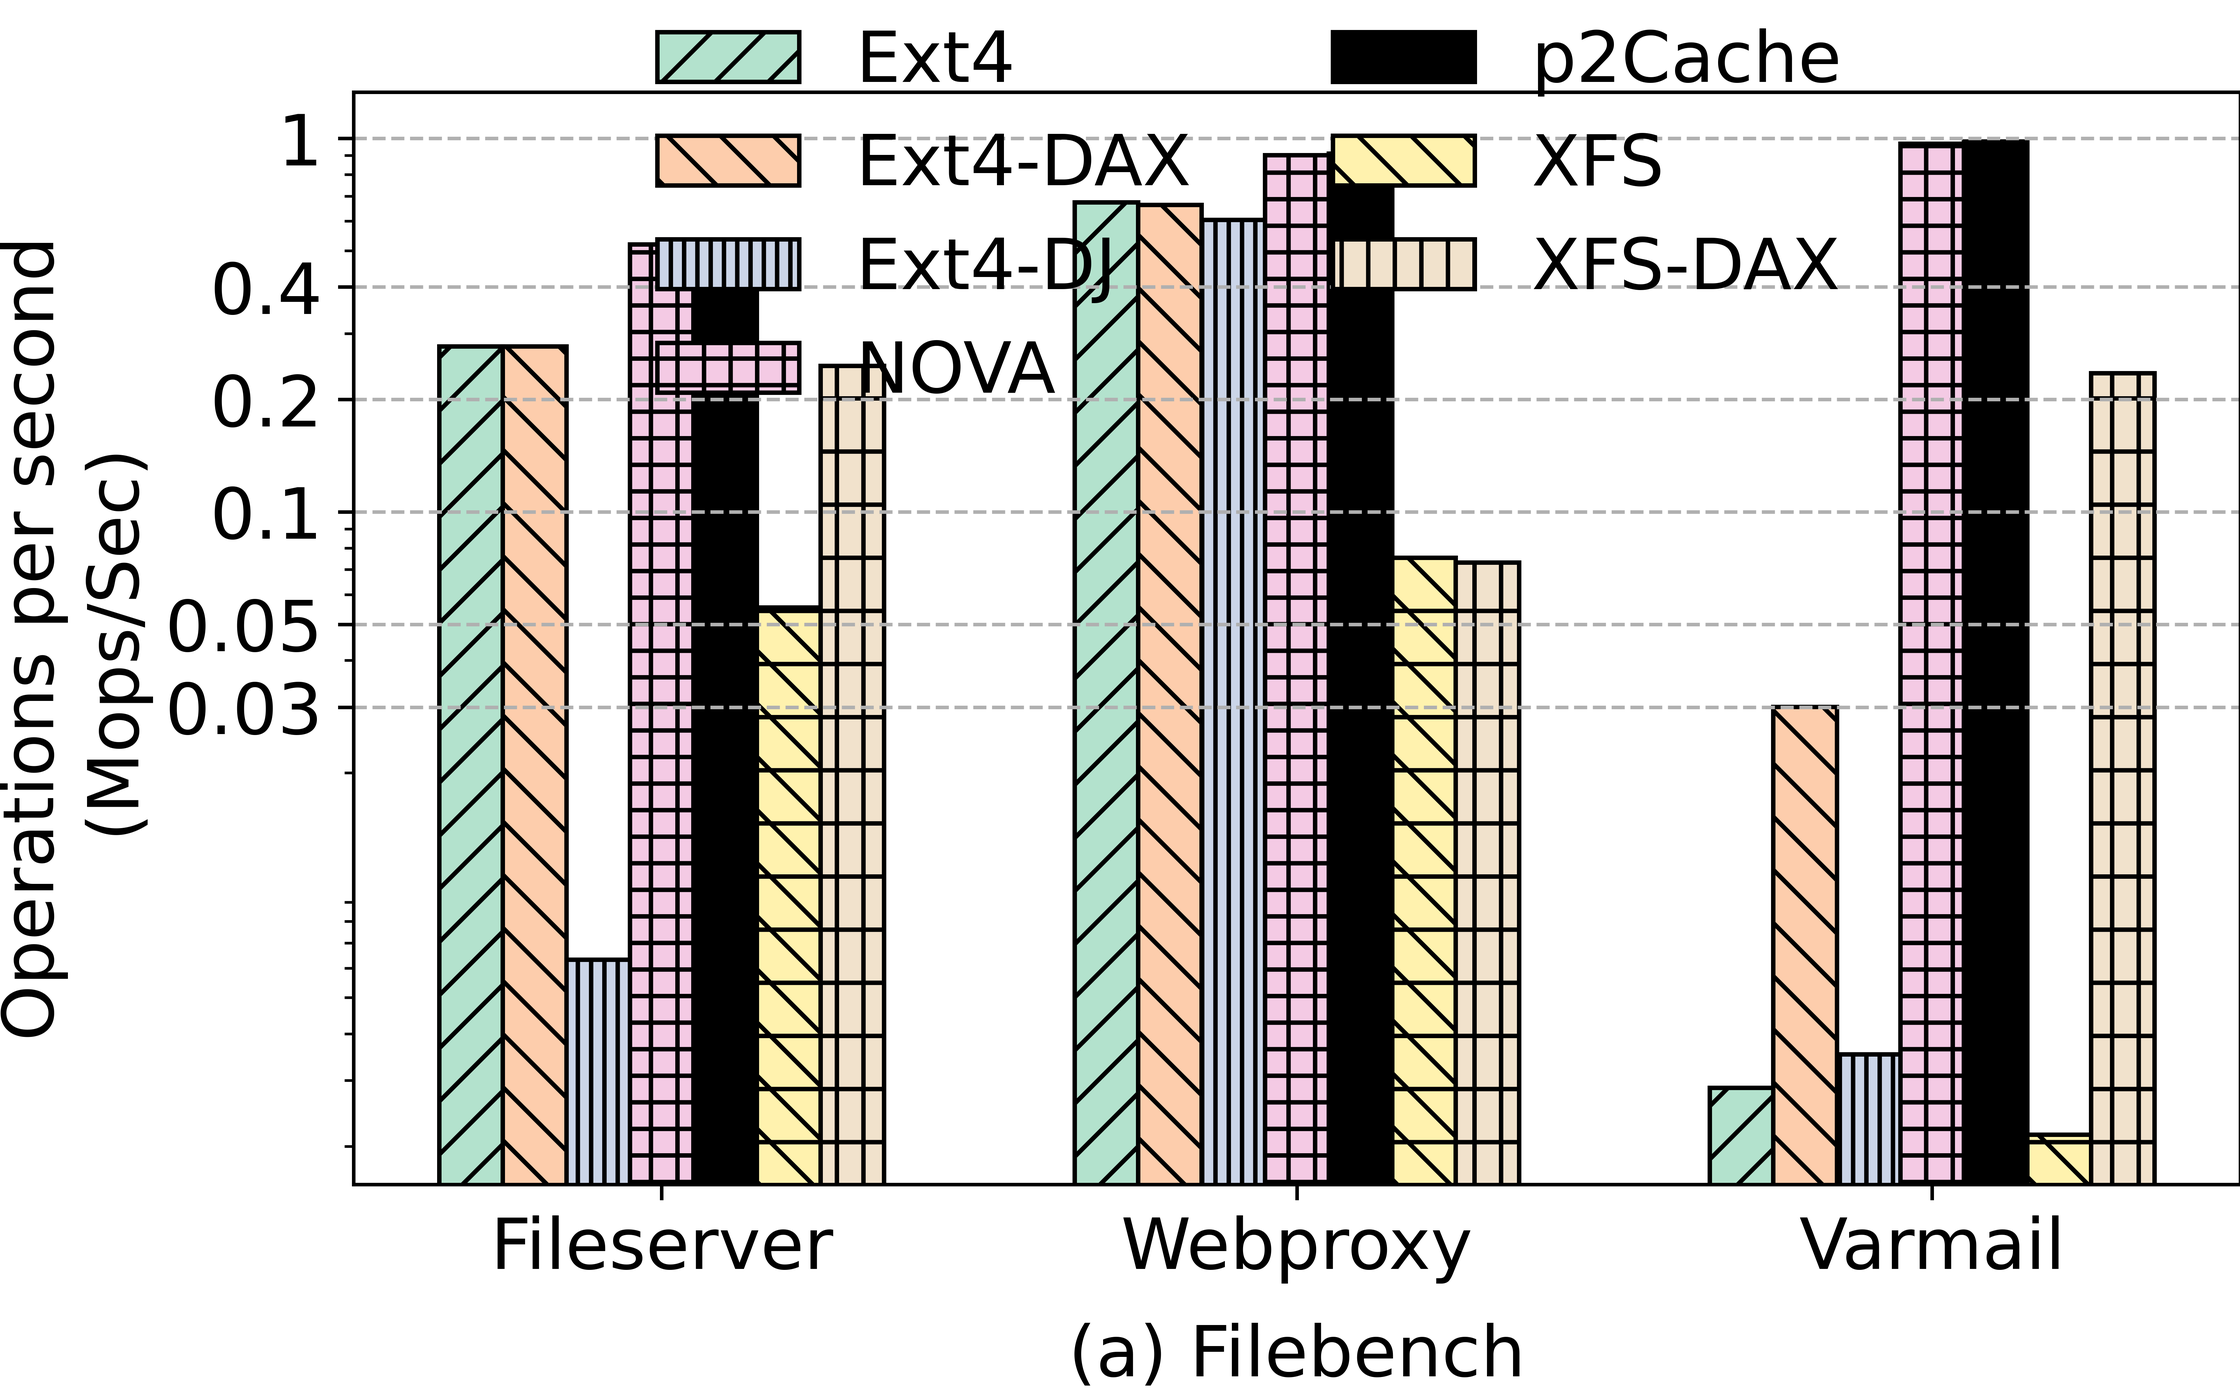
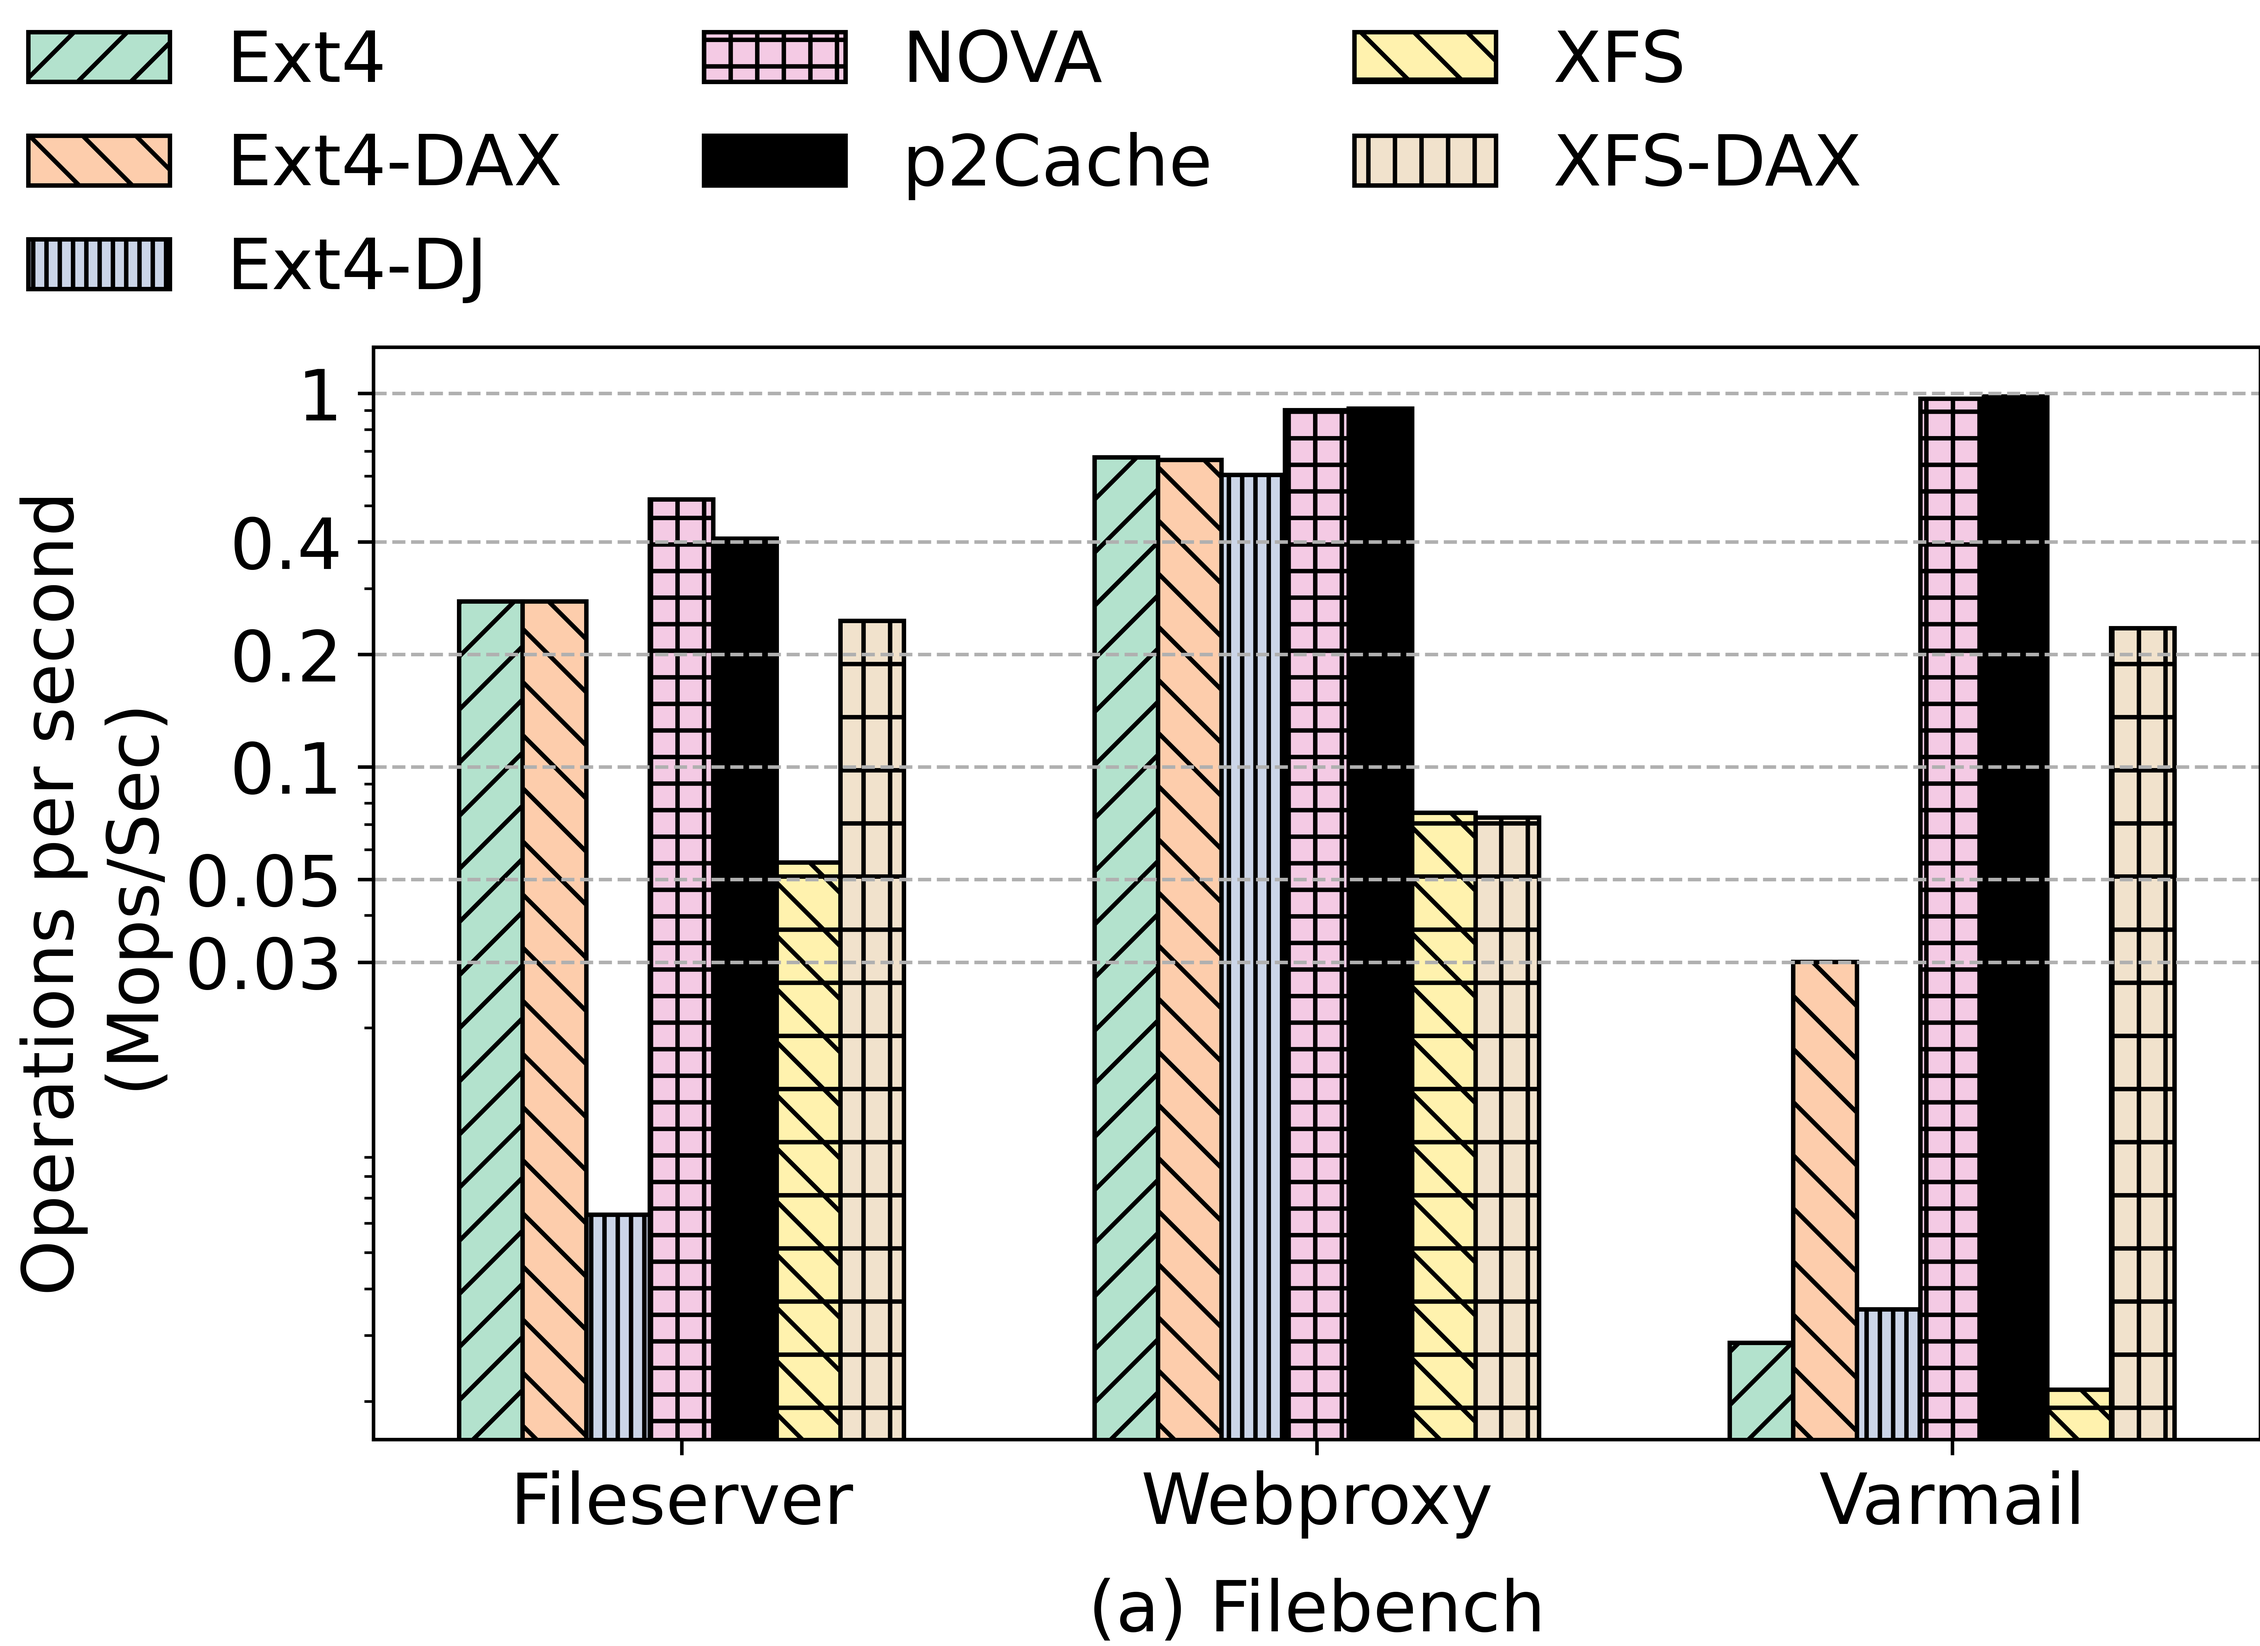
fix

Changed region(s): [[0.0, 0.0, 1.0, 0.9973], [0.9974, 0.8414, 1.0, 0.8726]]

diff --git a/share/artifact/plot/rocksdb.py b/share/artifact/plot/rocksdb.py
@@ -58,7 +58,7 @@ bar_num = len(data_names)
 x = np.arange(len(df["bench_name"]), dtype = float)
 for idx, i in enumerate(data_names):
     offset, wid = calc_pos(bar_num, idx)
-    ax.bar(x + offset, df[i] / 1000000, color = colors[idx], width = wid, edgecolor='black', hatch = patterns[idx])
+    ax.bar(x + offset, df[i] / 1000000, label = label_names[idx], color = colors[idx], width = wid, edgecolor='black', hatch = patterns[idx])
 ax.set_yscale('log')
 ax.grid(axis= 'y',linestyle='--')
 ax.tick_params(axis='both', labelsize=16)
@@ -67,7 +67,7 @@ ax.set_yticks([0.001, 0.01, 0.1, 0.2, 0.4, 1, 2], ["0.001", "0.01", "0.1", "0.2"
 ax.set_title("(b) RocksDB", fontsize = 16, y= -0.2, x = 0.5)
 
 
-fig.legend(ncol = 2, fontsize = 16, frameon=False, bbox_to_anchor=(0.85, 1.1))
+fig.legend(ncol = 3, fontsize = 16, frameon=False, bbox_to_anchor=(0.85, 1.3))
 
 fig.tight_layout(pad =0)
 foo_fig = plt.gcf() # 'get current figure'

diff --git a/share/artifact/plot/filebench.py b/share/artifact/plot/filebench.py
@@ -66,7 +66,7 @@ ax.set_yticks([0.03, 0.05, 0.1, 0.2, 0.4, 1], ["0.03", "0.05", "0.1", "0.2", "0.
 ax.set_title("(a) Filebench", fontsize = 16, y= -0.2, x = 0.5)
 
 
-fig.legend(ncol = 2, fontsize = 16, frameon=False, bbox_to_anchor=(0.85, 1.1))
+fig.legend(ncol = 3, fontsize = 16, frameon=False, bbox_to_anchor=(0.85, 1.3))
 
 fig.tight_layout(pad =0)
 foo_fig = plt.gcf() # 'get current figure'
